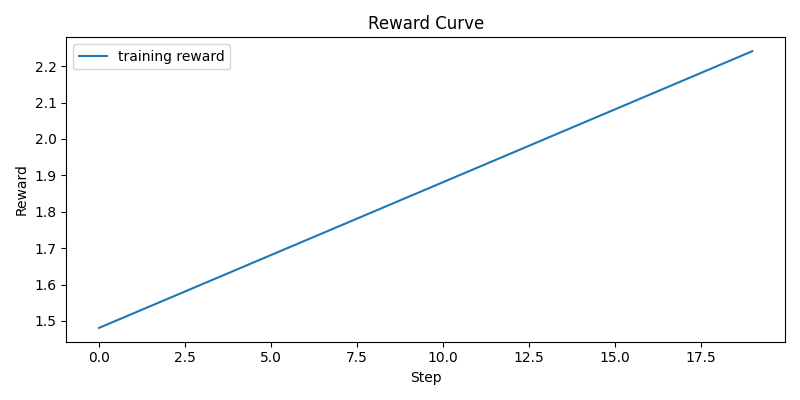
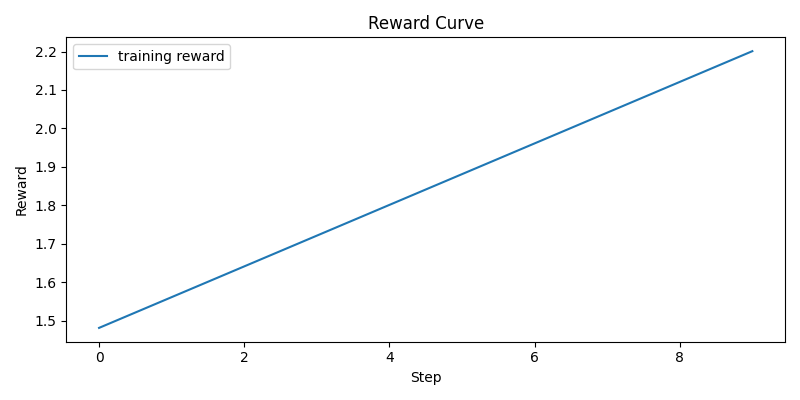
changed train

diff --git a/training/train.py b/training/train.py
@@ -7,21 +7,23 @@ from statistics import mean
 import sys
 from typing import Dict, List
 
+# ── project root on sys.path ──────────────────────────────────────────────────
+# train.py lives at  <root>/training/train.py  so parents[1] == <root>
 ROOT = Path(__file__).resolve().parents[1]
 if str(ROOT) not in sys.path:
     sys.path.insert(0, str(ROOT))
 
 from environment.env import WorkLifeFirewallEnv
-from training.rollout import build_prompt
-from training.rollout import run_rule_based_episode
+from training.rollout import build_prompt, run_rule_based_episode
 
+
+# ── simulate mode (no GPU needed) ────────────────────────────────────────────
 
 def simulate_training(steps: int, seed: int) -> dict:
     env = WorkLifeFirewallEnv(randomize_order=True, seed=seed)
     rewards = []
     for i in range(steps):
         run = run_rule_based_episode(env)
-        # Lightweight shaping to emulate learning curve during dry-runs.
         rewards.append(run["total_reward"] + min(0.8, i / max(1, steps) * 0.8))
     return {
         "steps": steps,
@@ -31,6 +33,8 @@ def simulate_training(steps: int, seed: int) -> dict:
     }
 
 
+# ── dataset builder ───────────────────────────────────────────────────────────
+
 def _build_grpo_dataset(env: WorkLifeFirewallEnv, episodes: int) -> List[Dict[str, str]]:
     rows: List[Dict[str, str]] = []
     for _ in range(episodes):
@@ -38,36 +42,61 @@ def _build_grpo_dataset(env: WorkLifeFirewallEnv, episodes: int) -> List[Dict[st
         done = False
         while not done:
             rows.append({"prompt": build_prompt(obs)})
-            # Advance state with a neutral action; GRPO samples candidates for this prompt anyway.
             obs, _, done, _ = env.step("I will handle this with a clear plan and timeline.")
     return rows
 
+
+# ── real GRPO training (Kaggle GPU) ──────────────────────────────────────────
 
 def train_real_grpo(steps: int, seed: int, output_dir: Path, run_name: str) -> dict:
     try:
         from datasets import Dataset
         from trl import GRPOConfig, GRPOTrainer
-        from transformers import AutoModelForCausalLM, AutoTokenizer
+        # FIX 1: Use Unsloth's FastLanguageModel instead of plain AutoModelForCausalLM.
+        #        This enables 4-bit loading + LoRA so the 7B model fits in Kaggle's ~16 GB VRAM.
+        from unsloth import FastLanguageModel
     except ImportError as exc:
         raise RuntimeError(
-            "Missing training deps for real mode. Install requirements on Kaggle GPU notebook."
+            "Missing training deps. Install requirements on a Kaggle GPU notebook."
         ) from exc
 
+    # ── build prompt dataset ──────────────────────────────────────────────────
     env = WorkLifeFirewallEnv(randomize_order=True, seed=seed)
     prompts = _build_grpo_dataset(env, episodes=max(8, steps // 20))
     dataset = Dataset.from_list(prompts)
 
+    # ── load model with Unsloth (4-bit + LoRA) ────────────────────────────────
+    # FIX 2: load_in_4bit=True keeps peak VRAM well under 16 GB.
+    # FIX 3: get_peft_model wraps with LoRA so only ~1-2 % of params are trained.
     model_id = "unsloth/Qwen2.5-7B-Instruct-bnb-4bit"
-    tokenizer = AutoTokenizer.from_pretrained(model_id, use_fast=True)
+    model, tokenizer = FastLanguageModel.from_pretrained(
+        model_name=model_id,
+        max_seq_length=512,
+        dtype=None,          # auto-detect (bf16 on Ampere+)
+        load_in_4bit=True,
+    )
+    model = FastLanguageModel.get_peft_model(
+        model,
+        r=16,                          # LoRA rank
+        target_modules=[               # standard Qwen2 attention + MLP targets
+            "q_proj", "k_proj", "v_proj", "o_proj",
+            "gate_proj", "up_proj", "down_proj",
+        ],
+        lora_alpha=16,
+        lora_dropout=0.0,
+        bias="none",
+        use_gradient_checkpointing="unsloth",  # saves ~30 % VRAM
+        random_state=seed,
+    )
+
     if tokenizer.pad_token is None:
         tokenizer.pad_token = tokenizer.eos_token
-    model = AutoModelForCausalLM.from_pretrained(model_id)
 
-    def reward_funcs(completions, **kwargs):  # TRL calls this with batched completions.
+    # ── reward function ───────────────────────────────────────────────────────
+    def reward_funcs(completions, **kwargs):
         rewards = []
         for text in completions:
             msg = text if isinstance(text, str) else str(text)
-            # Reward concise, specific and boundary-aware language without exposing rubric internals.
             reward = 0.1
             reward += 0.2 if len(msg.split()) >= 20 else -0.05
             reward += 0.2 if any(k in msg.lower() for k in ["by ", "today", "tomorrow", "thursday"]) else 0.0
@@ -75,6 +104,8 @@ def train_real_grpo(steps: int, seed: int, output_dir: Path, run_name: str) -> d
             rewards.append(max(-1.0, min(1.0, reward)))
         return rewards
 
+    # ── GRPO config ───────────────────────────────────────────────────────────
+    # FIX 4: added fp16/bf16 flag and removed deprecated fields for trl>=0.9
     cfg = GRPOConfig(
         output_dir=str(output_dir),
         run_name=run_name,
@@ -85,6 +116,7 @@ def train_real_grpo(steps: int, seed: int, output_dir: Path, run_name: str) -> d
         max_steps=steps,
         gradient_accumulation_steps=4,
         per_device_train_batch_size=1,
+        bf16=True,           # use bf16 on Kaggle A100/T4; set to fp16=True for older GPUs
         report_to=["wandb"],
     )
 
@@ -96,30 +128,38 @@ def train_real_grpo(steps: int, seed: int, output_dir: Path, run_name: str) -> d
         processing_class=tokenizer,
     )
     trainer.train()
-    trainer.save_model(str(output_dir / "final"))
-    tokenizer.save_pretrained(str(output_dir / "final"))
 
-    metrics = {
+    # FIX 5: save merged 16-bit weights (Unsloth helper) for easy inference later
+    final_dir = output_dir / "final"
+    model.save_pretrained_merged(
+        str(final_dir),
+        tokenizer,
+        save_method="merged_16bit",
+    )
+
+    return {
         "steps": steps,
         "mode": "real",
         "train_rows": len(prompts),
-        "output_dir": str(output_dir / "final"),
+        "output_dir": str(final_dir),
     }
-    return metrics
 
+
+# ── CLI entry-point ───────────────────────────────────────────────────────────
 
 def main() -> None:
-    parser = argparse.ArgumentParser(description="Train Work-Life Firewall (Kaggle-ready script).")
-    parser.add_argument("--steps", type=int, default=300, help="Number of training iterations.")
-    parser.add_argument("--seed", type=int, default=42)
-    parser.add_argument("--mode", choices=["simulate", "real"], default="simulate")
+    parser = argparse.ArgumentParser(description="Train Work-Life Firewall (Kaggle-ready).")
+    parser.add_argument("--steps",    type=int, default=300)
+    parser.add_argument("--seed",     type=int, default=42)
+    parser.add_argument("--mode",     choices=["simulate", "real"], default="simulate")
     parser.add_argument("--run-name", type=str, default="work-life-firewall-grpo")
     parser.add_argument("--save-dir", type=str, default="checkpoints")
-    parser.add_argument("--output", type=str, default="evaluation/results/training_metrics.json")
+    parser.add_argument("--output",   type=str, default="evaluation/results/training_metrics.json")
     args = parser.parse_args()
 
     save_dir = Path(args.save_dir)
     save_dir.mkdir(parents=True, exist_ok=True)
+
     if args.mode == "real":
         metrics = train_real_grpo(args.steps, args.seed, save_dir, args.run_name)
     else:
@@ -129,11 +169,11 @@ def main() -> None:
     out = Path(args.output)
     out.parent.mkdir(parents=True, exist_ok=True)
     out.write_text(json.dumps(metrics, indent=2), encoding="utf-8")
-    print(f"Saved metrics: {out}")
+    print(f"Saved metrics → {out}")
     if "mean_reward" in metrics:
-        print(f"Mean reward: {metrics['mean_reward']:.3f} | Final reward: {metrics['final_reward']:.3f}")
+        print(f"Mean reward: {metrics['mean_reward']:.3f}  |  Final reward: {metrics['final_reward']:.3f}")
     else:
-        print(f"Completed real training run: {metrics['output_dir']}")
+        print(f"Real training complete → {metrics['output_dir']}")
 
 
 if __name__ == "__main__":